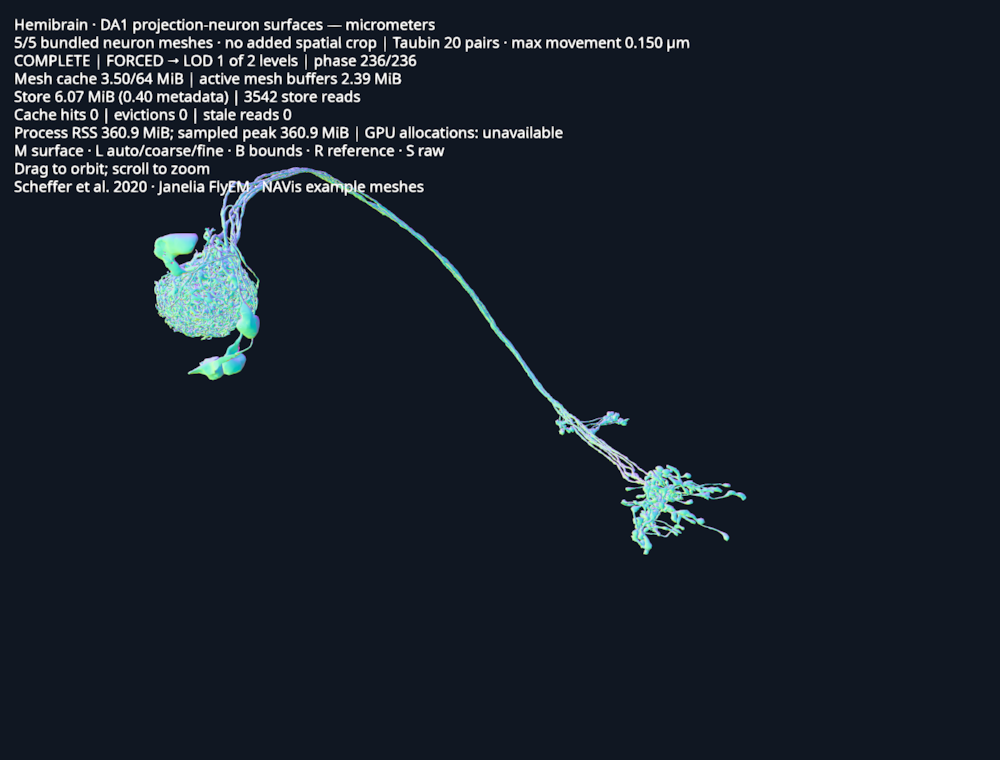
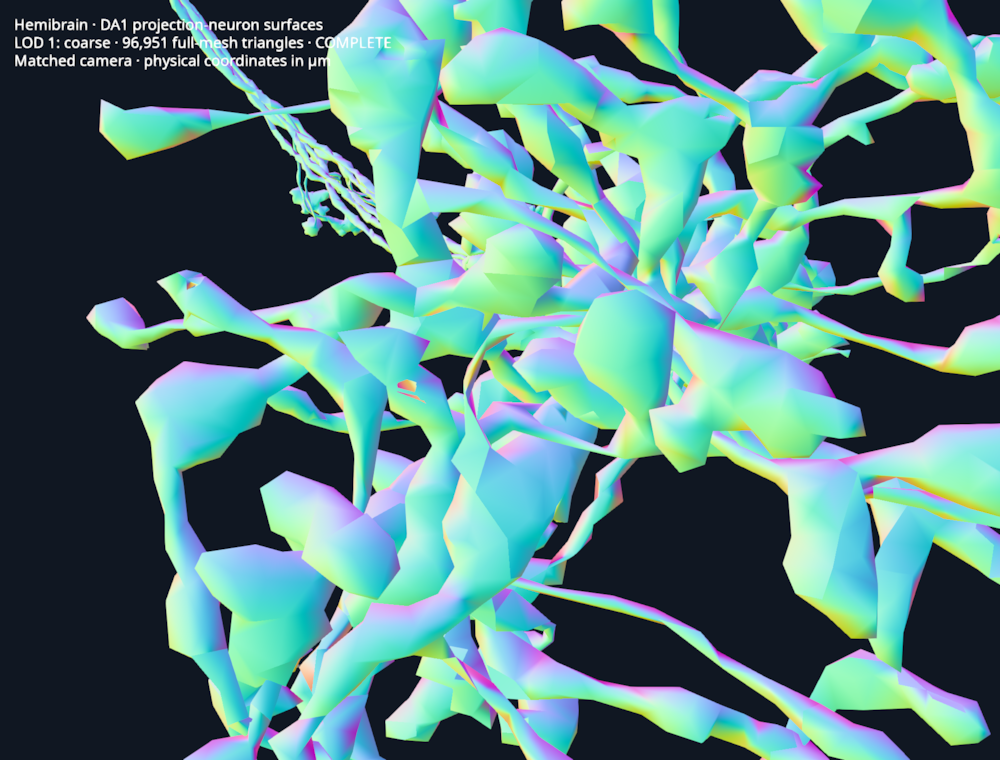
Show matched close-ups in the neuron LOD comparison

diff --git a/src/lodstone/adapters/biological_mesh_demo.py b/src/lodstone/adapters/biological_mesh_demo.py
@@ -30,6 +30,21 @@ def main() -> None:
     parser.add_argument("--smooth-iterations", type=int, default=20)
     parser.add_argument("--cache", type=Path)
     parser.add_argument("--offscreen", type=Path)
+    parser.add_argument(
+        "--focus",
+        type=float,
+        nargs=3,
+        metavar=("X", "Y", "Z"),
+        help="initial camera focus in micrometers",
+    )
+    parser.add_argument(
+        "--radius", type=float, help="initial camera framing radius in micrometers"
+    )
+    parser.add_argument(
+        "--compact-overlay",
+        action="store_true",
+        help="show a compact LOD caption for comparison screenshots",
+    )
     parser.add_argument("--prepare-only", action="store_true")
     parser.add_argument("--memory-mib", type=float, default=64.0)
     parser.add_argument(
@@ -45,6 +60,10 @@ def main() -> None:
     args = parser.parse_args()
     if args.smooth_iterations < 0:
         parser.error("--smooth-iterations must be nonnegative")
+    if args.focus is not None and not np.all(np.isfinite(args.focus)):
+        parser.error("--focus coordinates must be finite")
+    if args.radius is not None and (not np.isfinite(args.radius) or args.radius <= 0):
+        parser.error("--radius must be finite and positive")
     if args.cache is None:
         args.cache = (
             Path(os.environ.get("XDG_CACHE_HOME", Path.home() / ".cache"))
@@ -90,8 +109,15 @@ def main() -> None:
         origin_xyz = np.asarray(report["origin_xyz_um"])
         extent = origin_xyz + (np.asarray(image.shape[-3:])[::-1] - 1) * spacing_xyz
     center = (origin_xyz + extent) / 2
+    if args.focus is not None:
+        center = np.asarray(args.focus)
+    radius = (
+        float(np.linalg.norm(extent - origin_xyz) / 2)
+        if args.radius is None
+        else args.radius
+    )
     camera.show_object(
-        (*center, float(np.linalg.norm(extent - origin_xyz) / 2)),
+        (*center, radius),
         view_dir=(1.0, -1.0, -0.8),
         up=(0.0, 0.0, 1.0),
     )
@@ -261,6 +287,24 @@ def main() -> None:
             f"{status.error or (('Phase exceeds budget; current surface retained' if status.displayed_level is not None else 'Visible phase exceeds budget; increase --memory-mib') if status.limited else 'Drag to orbit; scroll to zoom')}\n"
             f"{credit}"
         )
+        if args.compact_overlay:
+            level = status.displayed_level
+            detail = (
+                reference_label
+                if reference_visible
+                else f"LOD {level}: {'fine' if level == 0 else 'coarse'}"
+            )
+            count = (
+                sum(
+                    o["fine" if reference_visible or level == 0 else "coarse"]["faces"]
+                    for o in report["objects"]
+                )
+                if level is not None
+                else 0
+            )
+            text.set_text(
+                f"{title}\n{detail} · {count:,} full-mesh triangles · {status.state.upper()}\n{status.error or 'Matched camera · physical coordinates in µm'}"
+            )
         renderer.render(scene, camera, flush=False)
         renderer.render(overlay, overlay_camera)
 
@@ -292,9 +336,18 @@ def main() -> None:
             args.offscreen.mkdir(parents=True, exist_ok=True)
             iio = import_module("imageio.v3")
             evidence = []
+            camera_evidence = []
             for level in reversed(range(len(source.levels))):
                 selected_level = level
-                stream.update(snapshot(), level=level)
+                view = snapshot()
+                camera_evidence.append(
+                    {
+                        "level": level,
+                        "world_to_clip": view.world_to_clip.tolist(),
+                        "viewport": list(view.viewport),
+                    }
+                )
+                stream.update(view, level=level)
                 try:
                     stream.wait(timeout=120)
                 except Exception:
@@ -319,6 +372,16 @@ def main() -> None:
                     pixels = np.asarray(canvas.draw())
                     iio.imwrite(args.offscreen / f"level-{level}-{name}.png", pixels)
                 evidence.append(diagnostic_snapshot(stream, source, target, memory))
+            (args.offscreen / "comparison-camera.json").write_text(
+                json.dumps(
+                    {
+                        "focus_xyz_um": center.tolist(),
+                        "radius_um": radius,
+                        "views": camera_evidence,
+                    },
+                    indent=2,
+                )
+            )
             images.visible = target.group.visible = True
             bound_group.visible = True
             canvas.request_draw(paint)
@@ -354,7 +417,6 @@ def main() -> None:
                         **diagnostic_snapshot(stream, source, target, memory),
                     }
                 )
-                radius = float(np.linalg.norm(extent - origin_xyz) / 2)
                 for name, scale, translation in [
                     ("zoom", 0.5, 0.0),
                     ("pan", 0.5, 25.0),

diff --git a/docs/biological-mesh.md b/docs/biological-mesh.md
@@ -21,9 +21,24 @@ package versions are declared by the launcher; no existing project environment
 is needed. The checkout's `biological-demo` extra also installs the same fork
 reader automatically; see [development installation](mesh-streaming.md#install-lodstone-with-mesh-support).
 
-| LOD 0: fine | LOD 1: coarse |
+The pair below uses the same close-up camera, scale and shading at both LODs.
+[Full-neuron overview](../img/hemibrain-neurons-overview.png).
+
+| LOD 0: fine close-up | LOD 1: coarse close-up |
 | --- | --- |
 | ![Fine neuron surfaces](../img/hemibrain-neurons-smoothed.png) | ![Coarse neuron surfaces](../img/hemibrain-neurons-coarse.png) |
+
+Reproduce this comparison from the checkout (the default viewer still opens
+on the full neurons):
+
+```bash
+uv run --frozen --extra biological-demo -m lodstone.adapters.biological_mesh_demo --focus 40 182 125 --radius 10 --compact-overlay --offscreen neuron-closeups
+```
+
+The focus is XYZ in micrometers; the framing radius is 10 µm. The offscreen
+capture writes both forced LODs plus `comparison-camera.json` so their identical
+camera matrices and viewport can be checked. The captions report whole-mesh
+triangle counts; only the region in the close-up is visible.
 
 ## Controls
 
